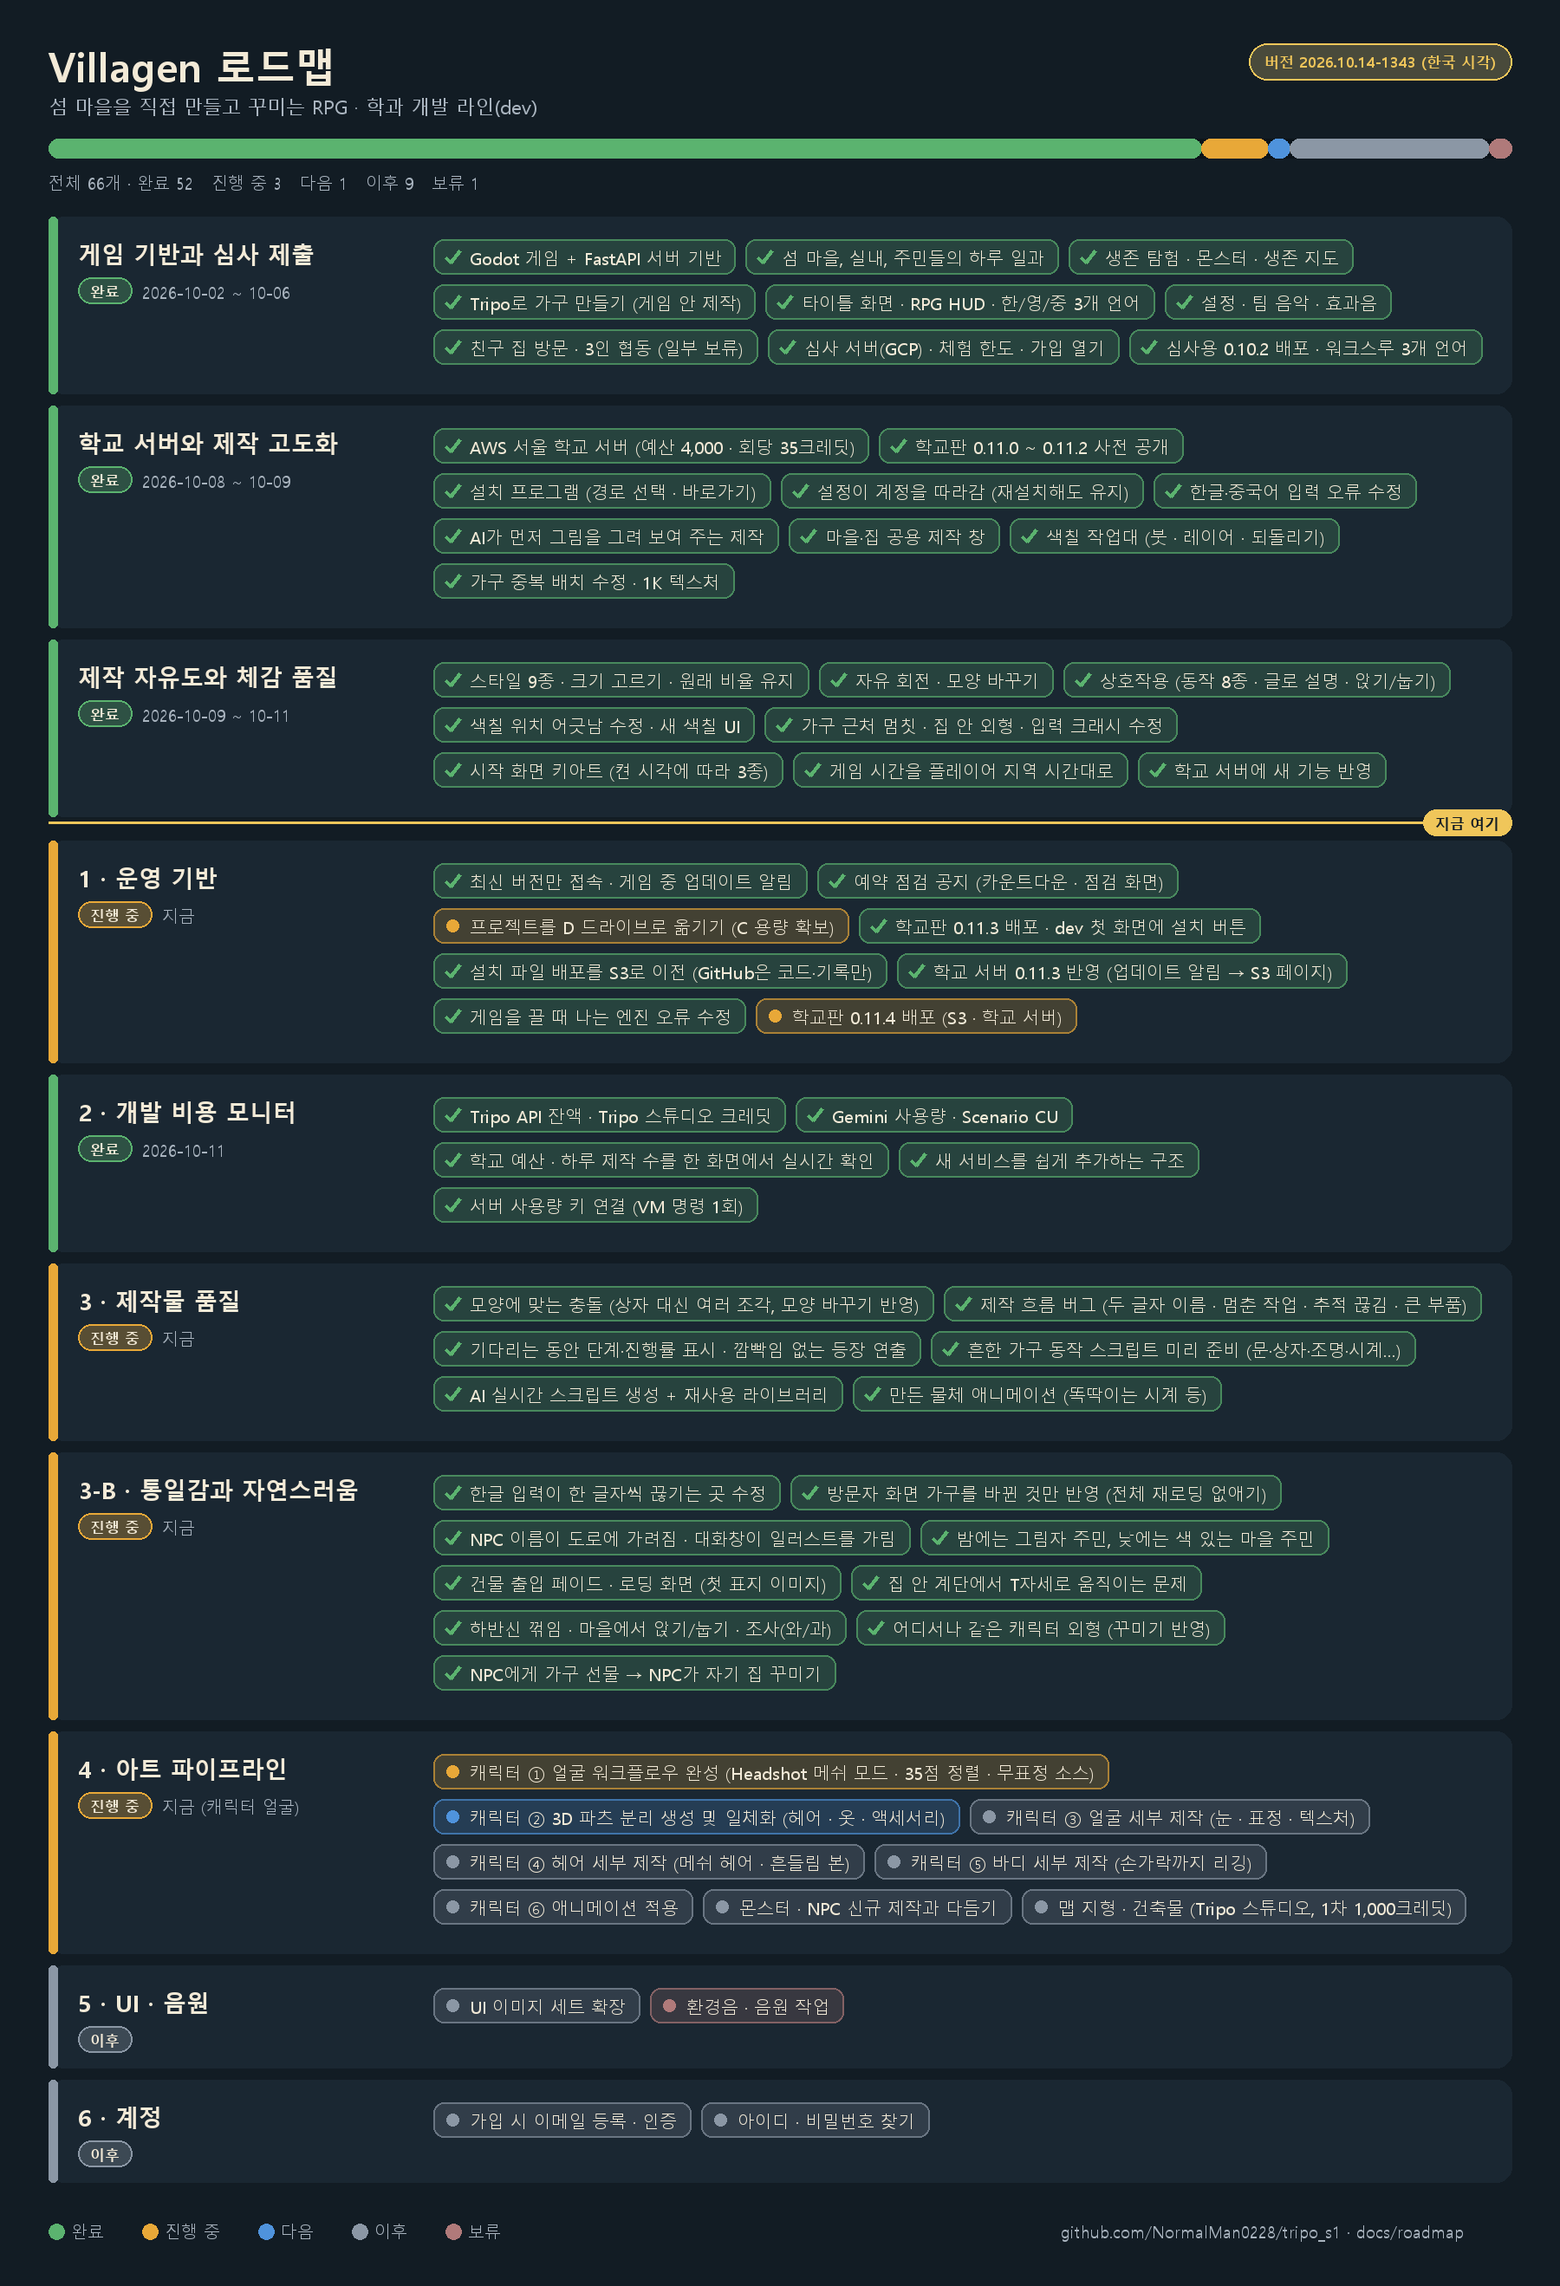
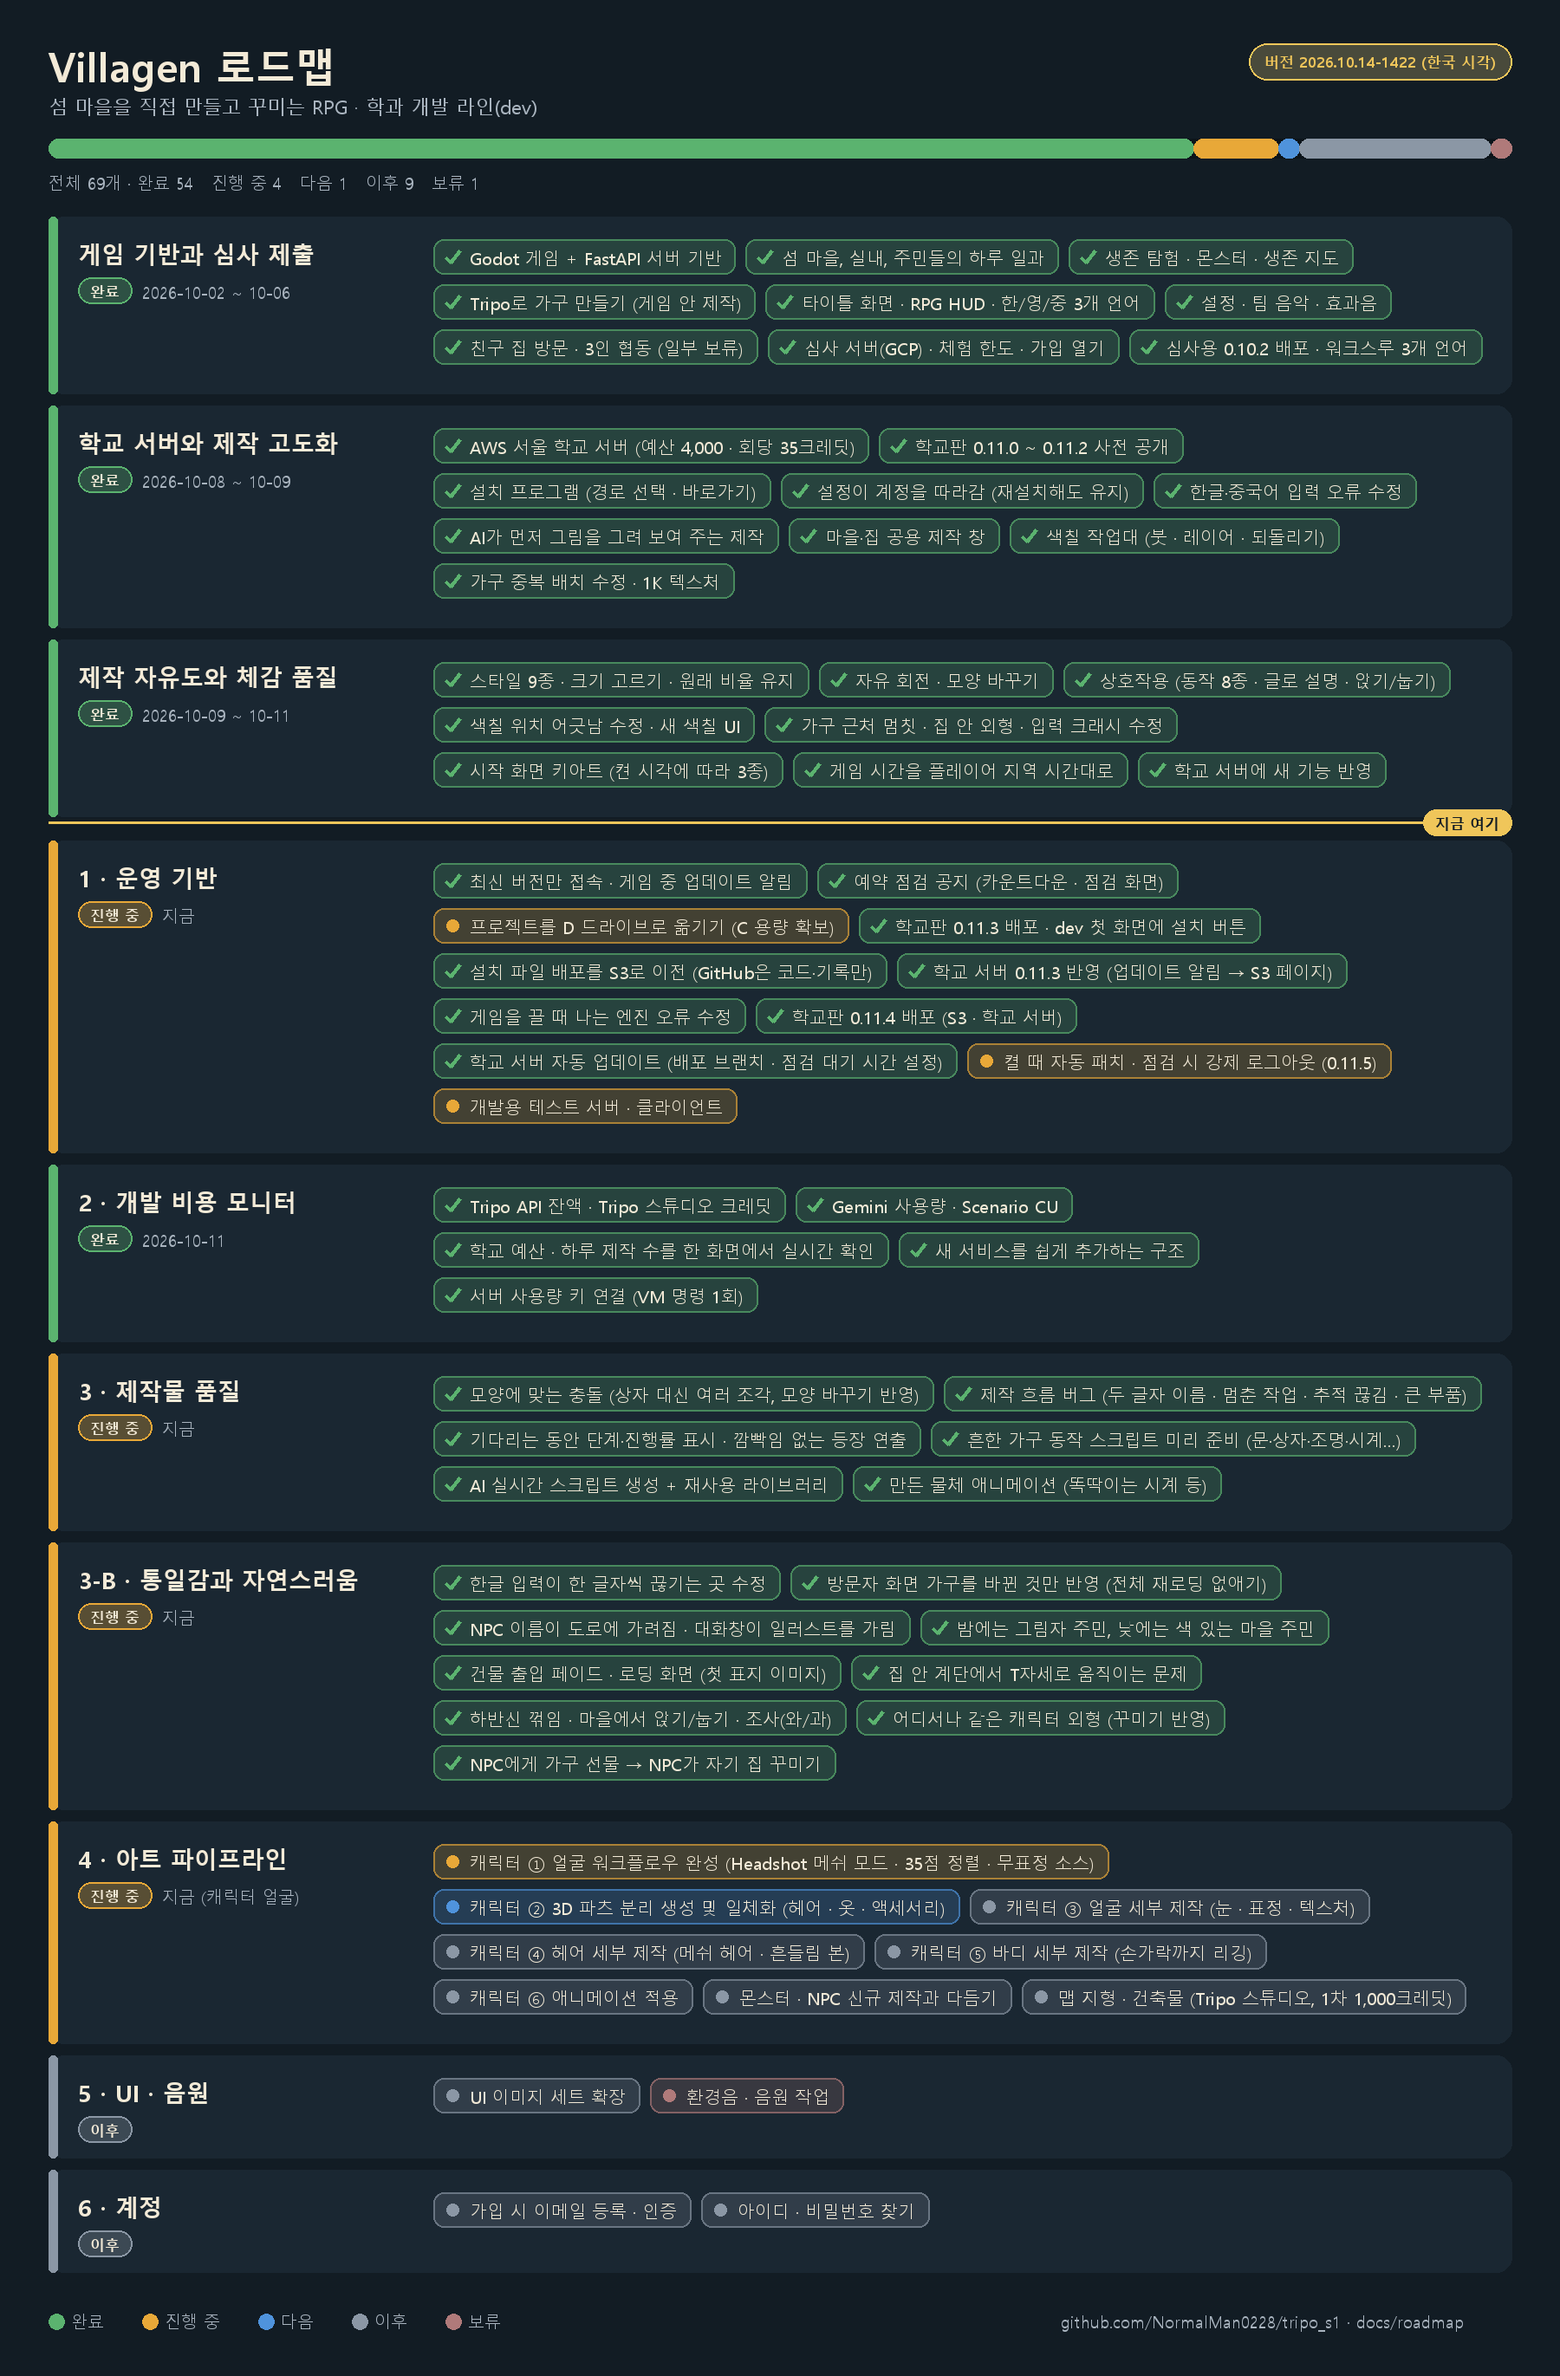
Roadmap: 0.11.4 live, server auto-update on, patching and staging started

diff --git a/docs/roadmap/ROADMAP_KO.md b/docs/roadmap/ROADMAP_KO.md
@@ -1,8 +1,8 @@
 # Villagen 로드맵
 
-**버전 2026.10.14-1343** (한국 시각) · 섬 마을을 직접 만들고 꾸미는 RPG · 학과 개발 라인(dev)
+**버전 2026.10.14-1422** (한국 시각) · 섬 마을을 직접 만들고 꾸미는 RPG · 학과 개발 라인(dev)
 
-> 그림으로 보기: [VISUAL_KO.md](VISUAL_KO.md) · 전체 66개 중 완료 52 · 진행 중 3 · 다음 1 · 이후 9 · 보류 1
+> 그림으로 보기: [VISUAL_KO.md](VISUAL_KO.md) · 전체 69개 중 완료 54 · 진행 중 4 · 다음 1 · 이후 9 · 보류 1
 
 - [학교 서버 운영 안내](../SCHOOL_SERVER_KO.txt)
 - [제작 품질표](../CRAFT_QUALITY_KO.md)
@@ -51,7 +51,10 @@
 - [x] 설치 파일 배포를 S3로 이전 (GitHub은 코드·기록만) (10-13)
 - [x] 학교 서버 0.11.3 반영 (업데이트 알림 → S3 페이지) (10-13)
 - [x] 게임을 끌 때 나는 엔진 오류 수정 (10-14)
-- [ ] 학교판 0.11.4 배포 (S3 · 학교 서버) · *진행 중*
+- [x] 학교판 0.11.4 배포 (S3 · 학교 서버) (10-14)
+- [x] 학교 서버 자동 업데이트 (배포 브랜치 · 점검 대기 시간 설정) (10-14)
+- [ ] 켤 때 자동 패치 · 점검 시 강제 로그아웃 (0.11.5) · *진행 중*
+- [ ] 개발용 테스트 서버 · 클라이언트 · *진행 중*
 
 ## 2 · 개발 비용 모니터  `완료` · 2026-10-11
 
@@ -107,6 +110,7 @@
 
 | 버전 (한국 시각) | 바뀐 점 |
 |---|---|
+| 2026.10.14-1422 | 0.11.4 학교 배포 완료, 서버 자동 업데이트 켬, 패치·개발 서버 작업 시작 |
 | 2026.10.14-1343 | 학교판 0.11.4 빌드·S3 업로드 완료, 학교 서버 업데이트 대기 |
 | 2026.10.14-1205 | 게임 종료 시 엔진 충돌 해결 |
 | 2026.10.14-1020 | 캐릭터 외형 통일 완료 |

diff --git a/docs/roadmap/VISUAL_KO.md b/docs/roadmap/VISUAL_KO.md
@@ -1,7 +1,7 @@
 # Villagen 로드맵 (그림)
 
-**버전 2026.10.14-1343** (한국 시각) · 글로 보기: [ROADMAP_KO.md](ROADMAP_KO.md)
+**버전 2026.10.14-1422** (한국 시각) · 글로 보기: [ROADMAP_KO.md](ROADMAP_KO.md)
 
-![Villagen 로드맵 2026.10.14-1343](roadmap.png)
+![Villagen 로드맵 2026.10.14-1422](roadmap.png)
 
 초록 완료 · 주황 진행 중 · 파랑 다음 · 회색 이후 · 갈색 보류

diff --git a/docs/roadmap/README.md b/docs/roadmap/README.md
@@ -1,8 +1,8 @@
 # Villagen 로드맵
 
-**버전 2026.10.14-1343** (한국 시각)
+**버전 2026.10.14-1422** (한국 시각)
 
 - [그림으로 보기](VISUAL_KO.md)
-- [글로 보기](ROADMAP_KO.md) — 완료 52 · 진행 중 3 · 다음 1 · 이후 9
+- [글로 보기](ROADMAP_KO.md) — 완료 54 · 진행 중 4 · 다음 1 · 이후 9
 
 ![로드맵](roadmap.png)
